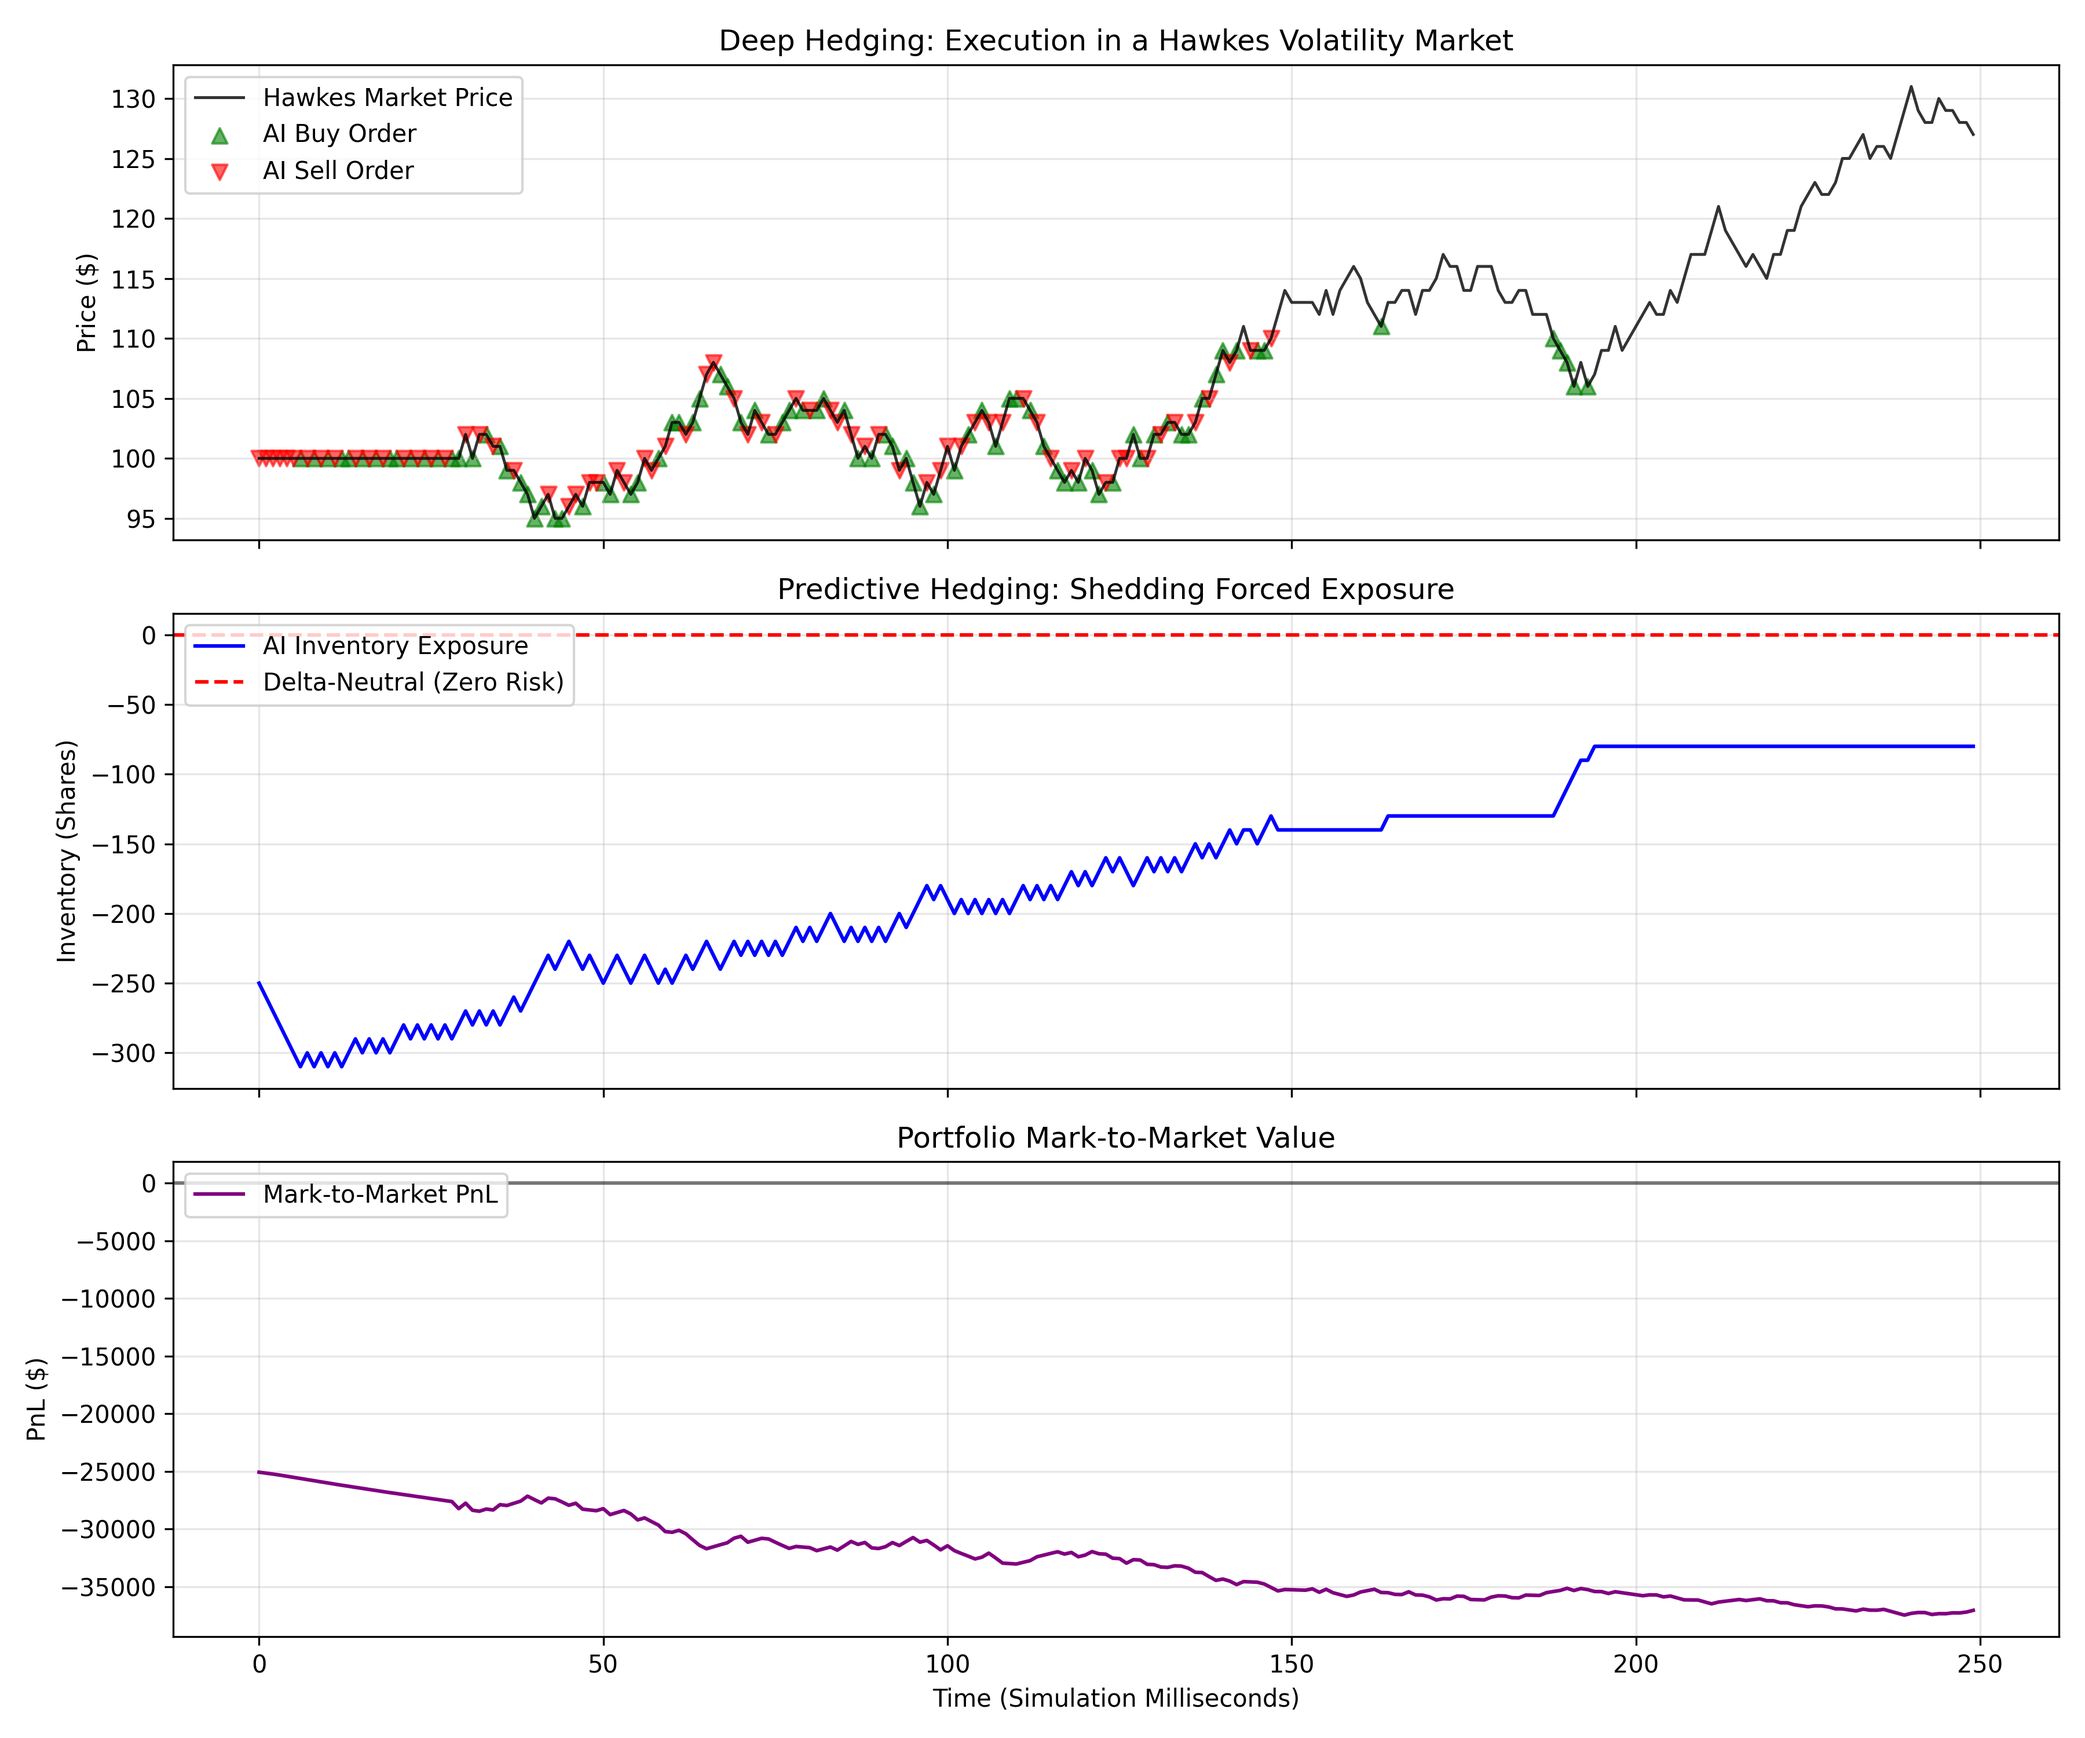
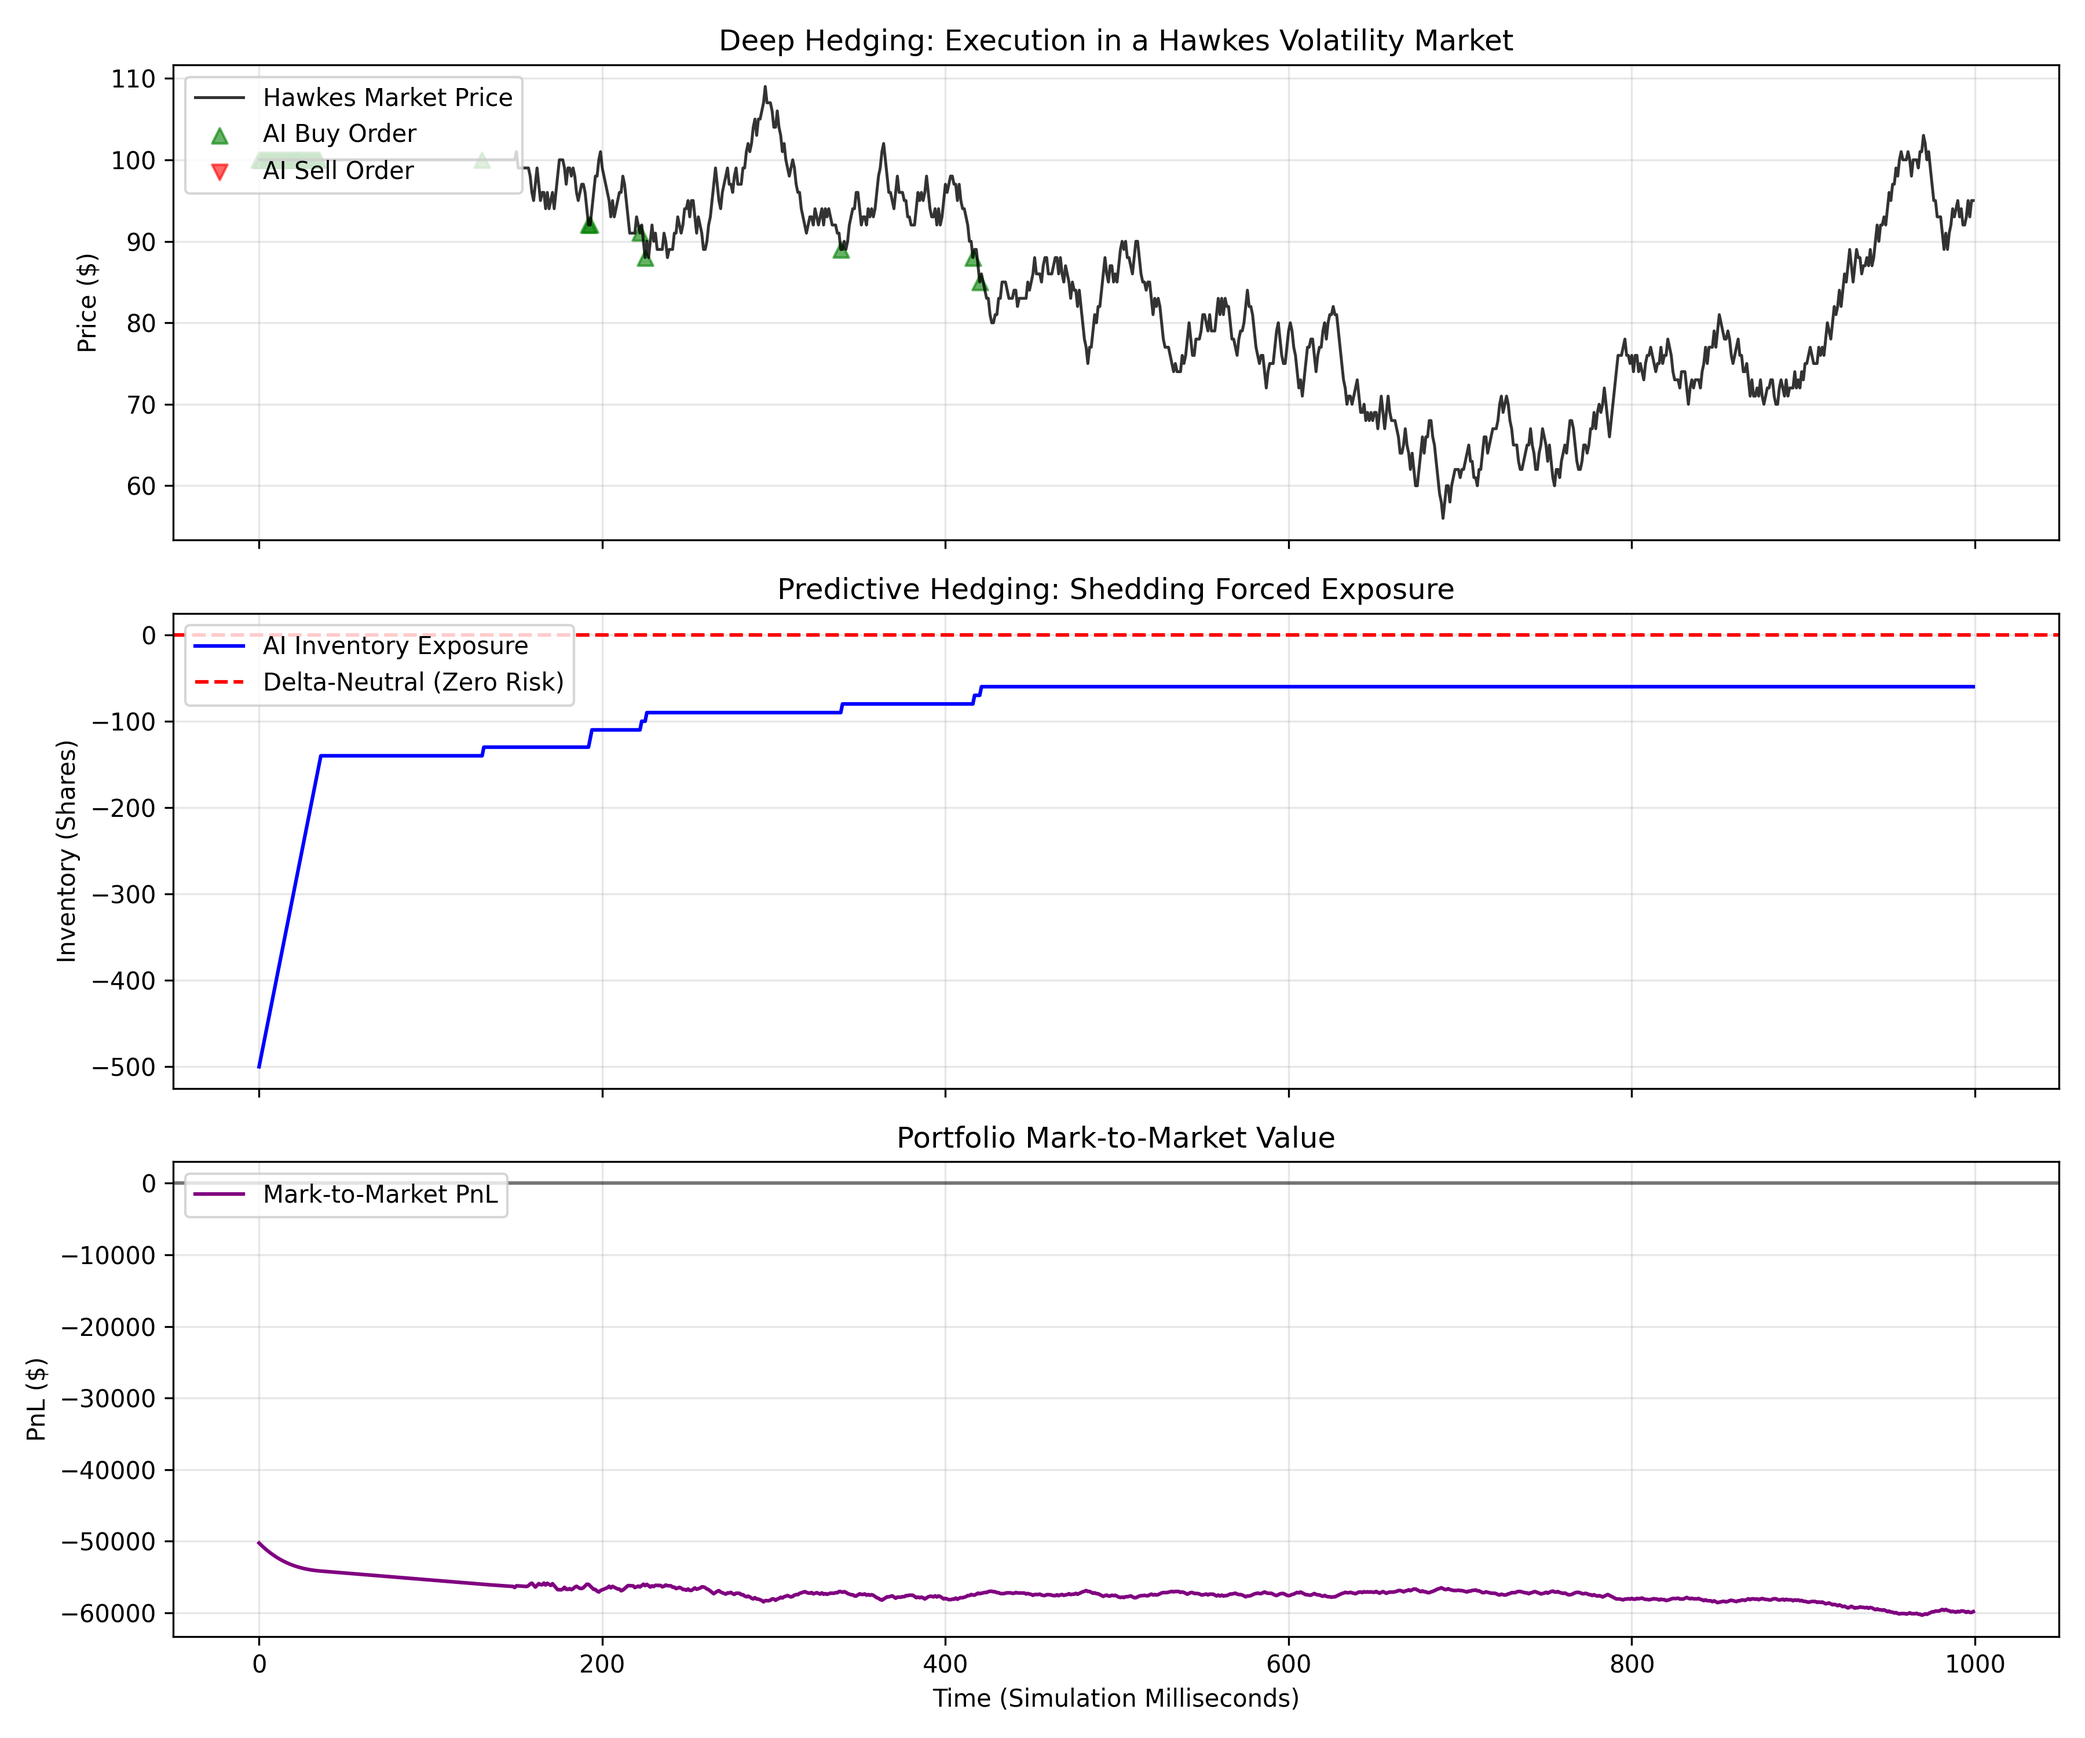
Resulting multicore code and plot

diff --git a/cpp_exchange/src/agent.py b/cpp_exchange/src/agent.py
@@ -16,64 +16,49 @@ class DeepHedgingModel(nn.Module):
         """
         super(DeepHedgingModel, self).__init__()
         
-        # Layer 1: Ingests the 3 state variables
         self.fc1 = nn.Linear(input_dim, hidden_dim)
-        
-        # Layer 2: Hidden processing
         self.fc2 = nn.Linear(hidden_dim, hidden_dim)
-        
-        # Layer 3: Output layer for the 3 possible actions
         self.action_head = nn.Linear(hidden_dim, output_dim)
 
     def forward(self, state):
         """
         Defines how data flows through the network.
         """
-        # Pass through hidden layers with ReLU activation
         x = F.relu(self.fc1(state))
         x = F.relu(self.fc2(x))
-        
-        # Output layer gets Softmax to convert raw numbers into probabilities (summing to 1.0)
         action_probs = F.softmax(self.action_head(x), dim=-1)
         
         return action_probs
 
 class RLAgent:
     def __init__(self):
-        # Initialize the neural network
         self.policy_network = DeepHedgingModel()
-        
-        # The Optimizer (Adam) will adjust the weights later during training
         self.optimizer = torch.optim.Adam(self.policy_network.parameters(), lr=0.0001)
 
-    def select_action(self, state_numpy):
+    def select_action(self, state_numpy, test_mode=False):
         """
         Takes the NumPy array from the environment, feeds it to the Brain, 
         and decides what to do.
         """
-        # 1. Convert the C++/NumPy state into a PyTorch Tensor
         state_tensor = torch.FloatTensor(state_numpy).unsqueeze(0)
-        
-        # 2. Feed it to the Brain (Forward Pass)
-        # Returns something like: [0.10, 0.20, 0.70]
         action_probs = self.policy_network(state_tensor)
         
-        # 3. Create a probability distribution from the network's output
-        m = Categorical(action_probs)
+        if test_mode:
+            # OUT-OF-SAMPLE MODE: Strictly pick the highest probability action
+            action_index = torch.argmax(action_probs)
+            log_prob, entropy = None, None
+        else:
+            # TRAINING MODE: Sample from the distribution to encourage exploration
+            m = Categorical(action_probs)
+            action_index = m.sample()
+            log_prob = m.log_prob(action_index)
+            entropy = m.entropy()
         
-        # 4. Sample an action based on those probabilities (0, 1, or 2)
-        action_index = m.sample()
-        
-        # 5. Map the index back to our C++ network commands:
-        # Index 0 -> Action -1 (Sell)
-        # Index 1 -> Action  0 (Hold)
-        # Index 2 -> Action  1 (Buy)
+        # Map the index back to our C++ network commands:
         action_mapping = [-1, 0, 1]
         chosen_action = action_mapping[action_index.item()]
         
-        # We also return the 'log probability' of the action. 
-        # (David Silver's math requires this for the Policy Gradient update later).
-        return chosen_action, m.log_prob(action_index), m.entropy()
+        return chosen_action, log_prob, entropy
 
 
 # ==========================================
@@ -92,19 +77,16 @@ if __name__ == "__main__":
     
     print("\n--- Running AI Integration Test (10 Steps) ---")
     for step in range(10):
-        # 1. The Brain looks at the state and chooses an action
-        action, log_prob = agent.select_action(state)
+        action, log_prob, _ = agent.select_action(state)
         
         print(f"Step {step+1}:")
         print(f"  State Tensor In: {state}")
-        print(f"  AI Chose Action: {action} (LogProb: {log_prob.item():.4f})")
+        print(f"  AI Chose Action: {action}")
         
-        # 2. The World executes the action and returns the results
         next_state, reward, done = env.step(action)
         print(f"  Resulting PnL:   ${reward:.2f}\n")
         
-        # 3. Update time
         state = next_state
         time.sleep(0.5)
         
-    print("AI successfully mapped states to actions. Tensors are flowing into Redis.")
+    print("AI successfully mapped states to actions.")

diff --git a/cpp_exchange/src/test.py b/cpp_exchange/src/test.py
@@ -12,13 +12,13 @@ def test_agent():
     # --- 1. LOAD THE TRAINED BRAIN ---
     try:
         agent.policy_network.load_state_dict(torch.load("deep_hedging_weights.pth"))
-        agent.policy_network.eval() # Disable exploration
+        agent.policy_network.eval() # Lock the neural network parameters
         print("Successfully loaded 'deep_hedging_weights.pth'.")
     except FileNotFoundError:
         print("Error: Could not find weights file. Waiting for training to finish.")
         return
 
-    # Data tracking arrays for thesis graphs
+    # Data tracking arrays for quantitative graphs
     history_prices = []
     history_holdings = []
     history_actions = []
@@ -34,15 +34,11 @@ def test_agent():
         history_prices.append(env.current_price)
         history_holdings.append(env.holdings)
         
+        # Turn off backpropagation math to save compute
         with torch.no_grad():
-            state_tensor = torch.FloatTensor(state).unsqueeze(0)
-            action_probs = agent.policy_network(state_tensor)
+            # Use the new test_mode flag for deterministic execution
+            best_action, _, _ = agent.select_action(state, test_mode=True)
             
-        # Deterministic execution (No dice rolls)
-        action_index = torch.argmax(action_probs).item()
-        action_mapping = [-1, 0, 1]
-        best_action = action_mapping[action_index]
-        
         history_actions.append(best_action)
         
         next_state, reward, done = env.step(best_action)
@@ -57,22 +53,20 @@ def test_agent():
             print(f"Simulation Complete. Final PnL: ${reward:.2f}")
             break
             
-    # --- 3. GENERATE THE THESIS GRAPHS ---
+    # --- 3. GENERATE THE VISUALS ---
     print("Generating Quantitative Matplotlib visuals...")
     
-    # Create a 3-panel chart
     fig, (ax1, ax2, ax3) = plt.subplots(3, 1, figsize=(12, 10), sharex=True)
     
     # --- Panel 1: Market Price & AI Actions ---
     ax1.plot(history_prices, color='black', linewidth=1.2, label='Hawkes Market Price', alpha=0.8)
     
-    # Overlay Buy/Sell markers
     buy_x, buy_y, sell_x, sell_y = [], [], [], []
     for t in range(len(history_actions)):
-        if history_actions[t] == 1:   # Buy
+        if history_actions[t] == 1:   
             buy_x.append(t)
             buy_y.append(history_prices[t])
-        elif history_actions[t] == -1: # Sell
+        elif history_actions[t] == -1: 
             sell_x.append(t)
             sell_y.append(history_prices[t])
             

diff --git a/cpp_exchange/src/train.py b/cpp_exchange/src/train.py
@@ -1,11 +1,12 @@
 import torch
+import os
 import numpy as np
 from environment import TradingEnvironment
 from agent import RLAgent
 
 torch.set_num_threads(1)
 # --- HYPERPARAMETERS ---
-TOTAL_EPISODES = 4000         # Start small for Phase 1 (Sandbox Testing)
+TOTAL_EPISODES = 2000         # Start small for Phase 1 (Sandbox Testing)
 RISK_AVERSION_LAMBDA = 0.05  # The 'Fear' parameter for Entropic Risk
 
 def calculate_entropic_utility(raw_pnl, lambda_val):
@@ -31,6 +32,20 @@ def train_agent():
     env = TradingEnvironment()
     agent = RLAgent()
     
+    weights_path = "deep_hedging_weights.pth"
+    
+    # --- NEW: THE MEMORY INJECTION ---
+    if os.path.exists(weights_path):
+        print(f"[*] Found existing brain at '{weights_path}'")
+        try:
+            # Load the saved state dictionary into the neural network
+            agent.policy_network.load_state_dict(torch.load(weights_path))
+            print("[*] Successfully restored previous weights. Resuming training...")
+        except Exception as e:
+            print(f"[!] Error loading weights: {e}. Starting with a blank brain.")
+    else:
+        print("[*] No existing weights found. Training a blank brain from scratch.")
+        
     history_pnl = []
     
     for episode in range(1, TOTAL_EPISODES + 1):
@@ -73,6 +88,12 @@ def train_agent():
         returns = (returns - returns.mean()) / (returns.std() + 1e-9)
         
         # --- 3. REINFORCE BACKPROPAGATION ---
+        # --- 3. DYNAMIC SAVING ---
+        # Save a checkpoint every 500 episodes just in case the node crashes
+        if episode % 500 == 0:
+            torch.save(agent.policy_network.state_dict(), weights_path)
+            print(f"[*] Checkpoint saved at Episode {episode}")
+
         policy_loss = []
         for log_prob, G in zip(episode_log_probs, returns):
             policy_loss.append(-log_prob * G)
@@ -96,7 +117,7 @@ def train_agent():
             print(f"Episode {episode:04d} | Terminal PnL: ${terminal_pnl:8.2f} | Loss: {final_loss.item():8.2f}")
         
     print("\n--- Training Complete ---")
-    torch.save(agent.policy_network.state_dict(), "deep_hedging_weights.pth")
-    print("Model weights saved to 'deep_hedging_weights.pth'.")
+    torch.save(agent.policy_network.state_dict(), weights_path)
+    print("Training Complete. Final model weights saved.")
 if __name__ == "__main__":
     train_agent()
